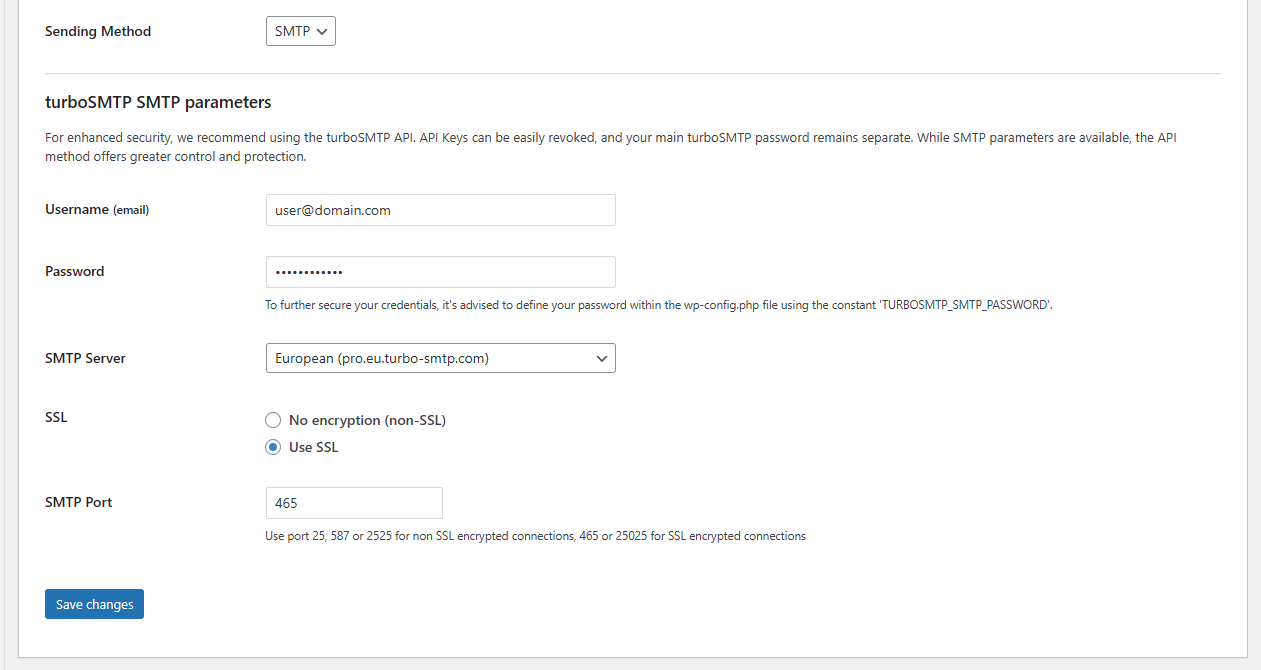
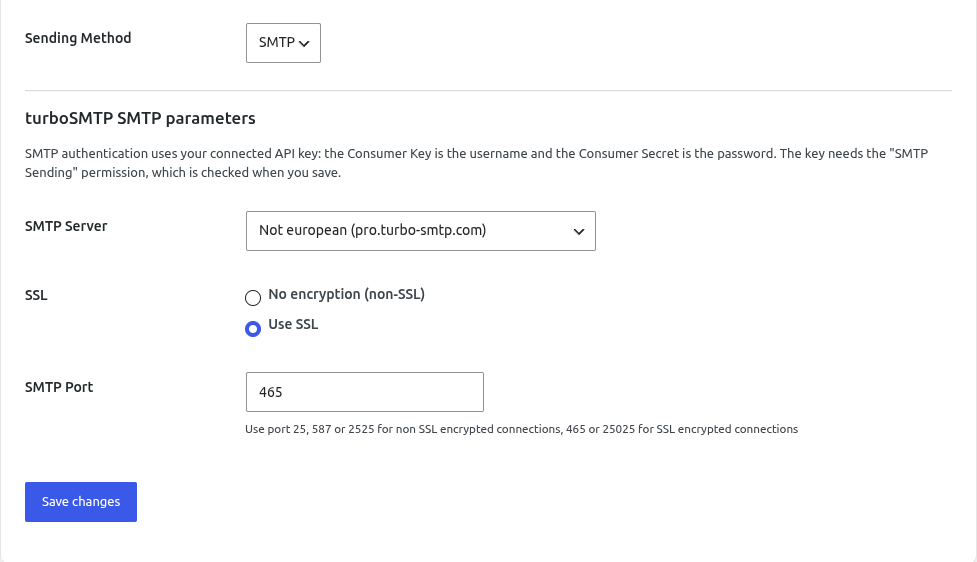
docs: update WP.org changelog and screenshots

diff --git a/.wordpress-org/readme/README.md b/.wordpress-org/readme/README.md
@@ -29,6 +29,18 @@ turboSMTP’s official plugin for WordPress is a professional tool that delivers
 
 == Changelog ==
 
+= 4.10.0 =
+* SMTP now authenticates with your API key (Consumer Key as username, Consumer Secret as password): your turboSMTP account password is no longer stored or used. The key needs the "SMTP Sending" permission, checked when you save the settings
+* Removed the legacy email/password migration: old installs that never switched to API keys are asked to connect with an API key
+* The sender configured in the plugin is now used for SMTP sending too, unless another plugin sets one
+* Report: shows the API key each email was sent with
+* Report: fixed rows not expanding on mobile, improved layout on small screens and with translated labels
+* Accessibility: labels, keyboard navigation, focus, contrast and screen reader fixes in settings, login and report
+* New HTML test email
+* Security: escaped email data in the report table and request parameters in the admin pages
+* Switching to the API sending method keeps your SMTP settings
+* Translation fixes
+
 = 4.9.9 =
 * Compatibility with WP 7.1
 
@@ -216,8 +228,6 @@ turboSMTP’s official plugin for WordPress is a professional tool that delivers
 3. Configure SMTP
 4. Show analytics
 5. Email List Table
-6. turboSMTP account migration
-7. turboSMTP API keys details
 
 == Frequently Asked Questions ==
 
